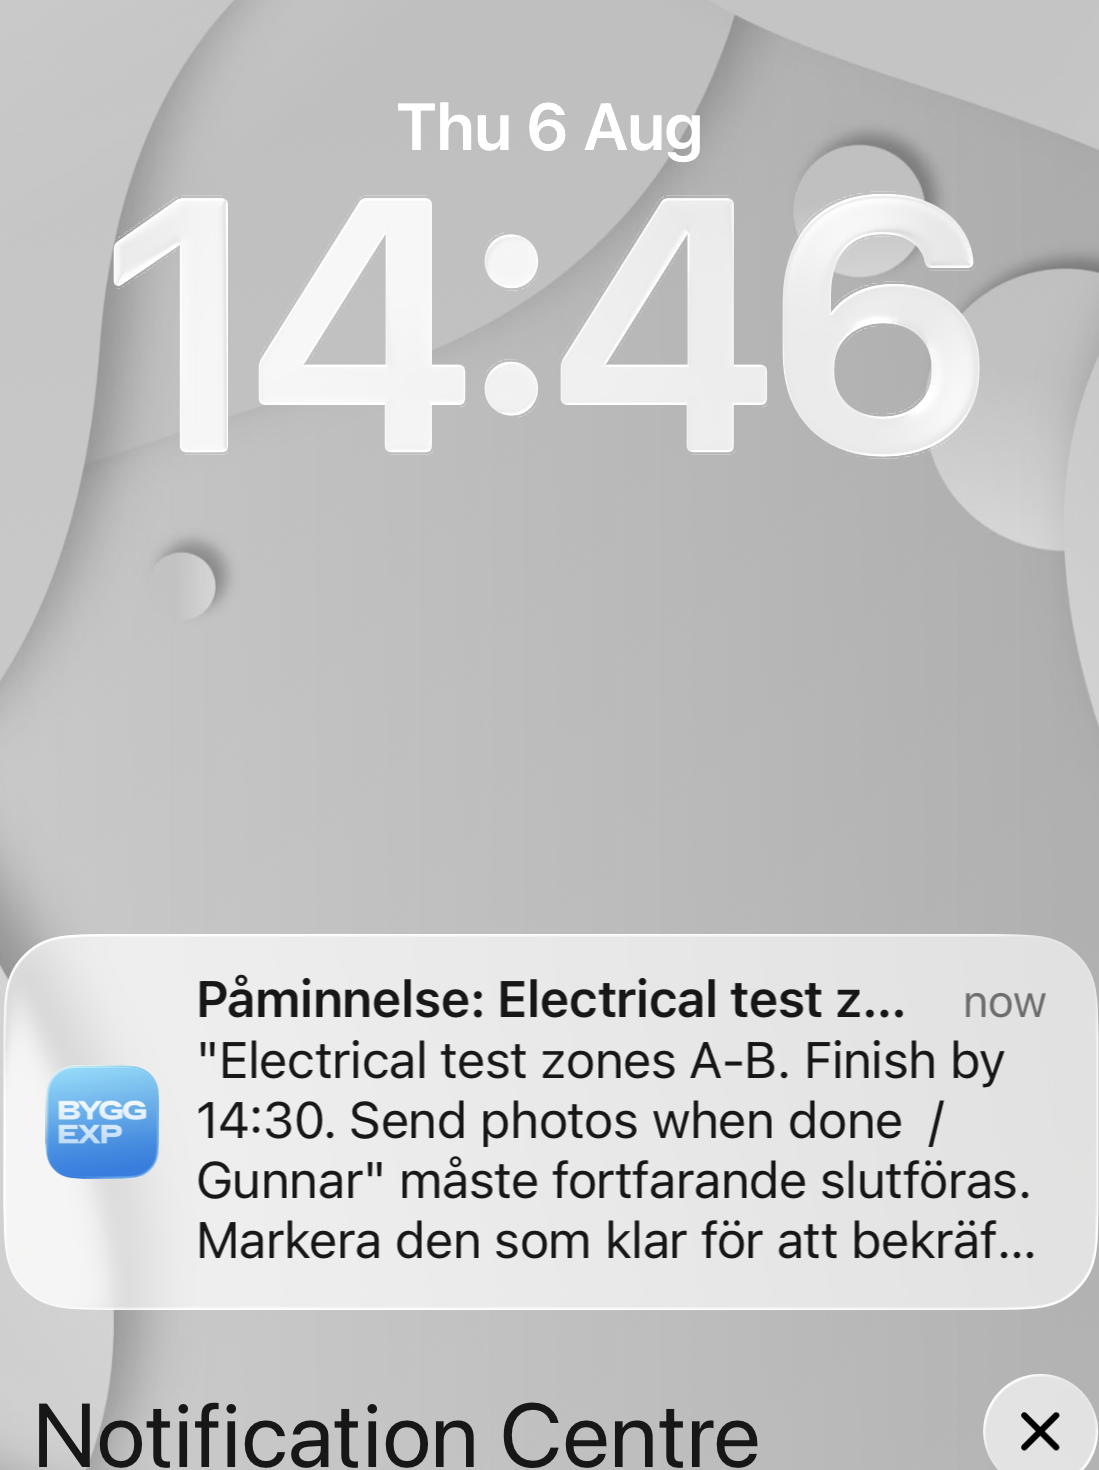
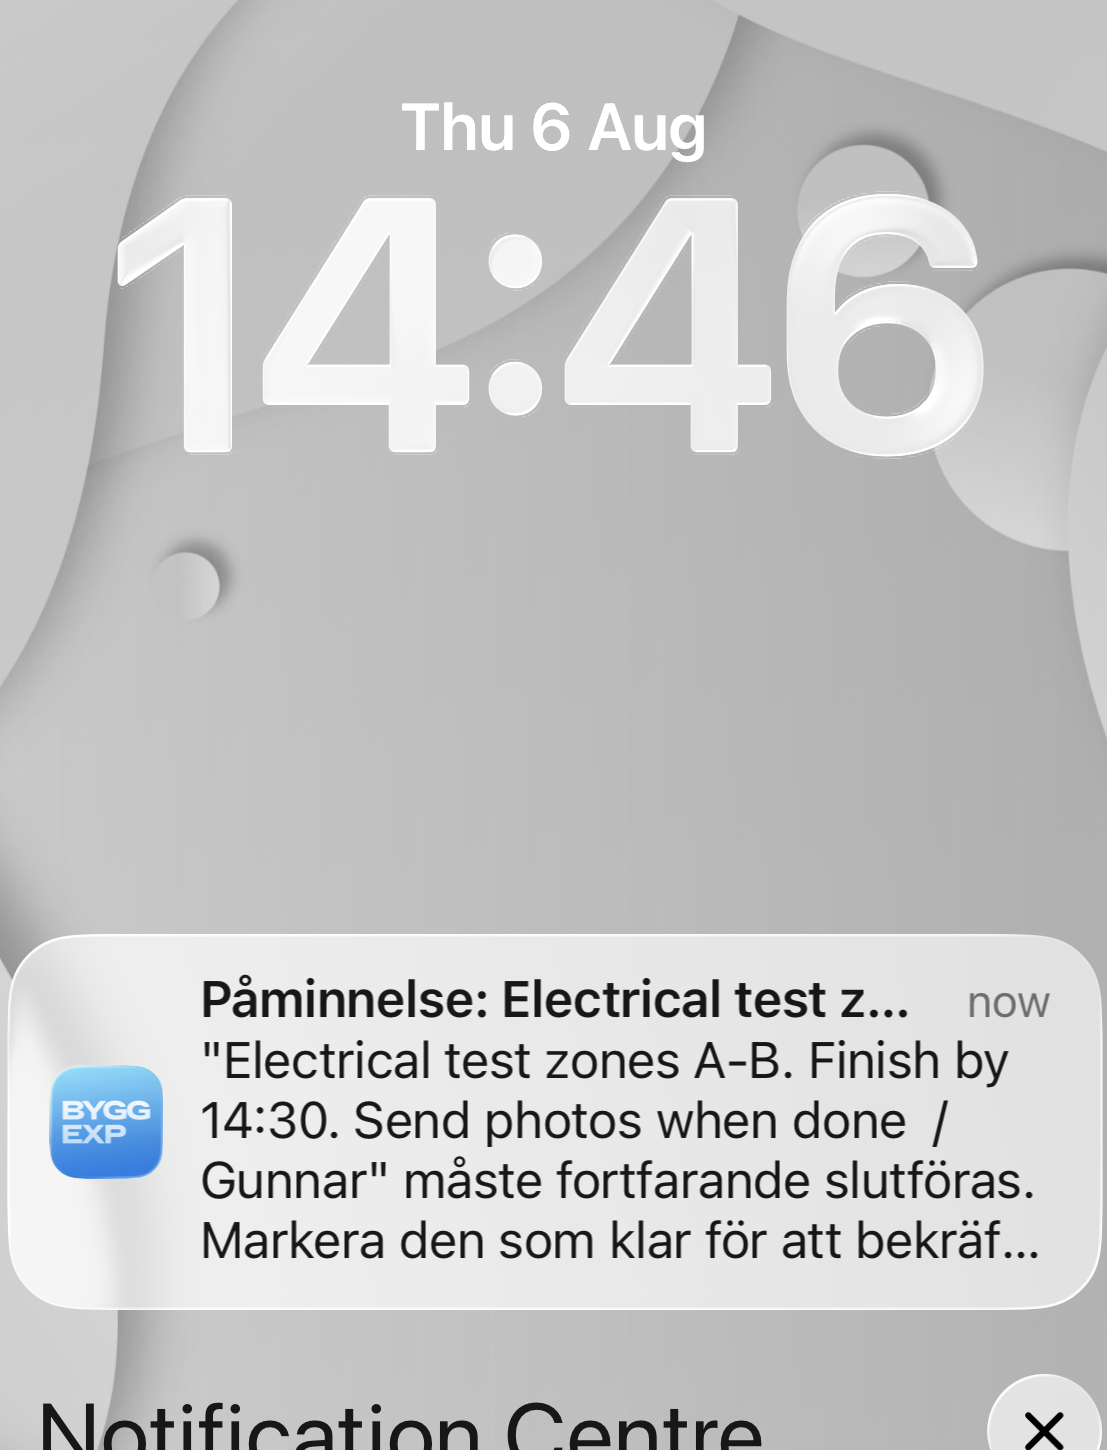
fix(welcome): tasks image sizing + receipt title/radii
- Tasks: give the lock-screen Image an explicit width×height (301×394) instead
  of aspectRatio — RN left the height unconstrained on device so cover zoomed
  into a slice. Re-cropped to include both reminders.
- Receipt (Nytt utlägg): centre the title (match other slide headers); unify
  inner radii (inputs/buttons r12/14, no more pill buttons); tightened spacing
  so the benefit heading isn't clipped.

JS-only → OTA.

Claude-Session: https://claude.ai/code/session_01PJYvtLEds7WEEeY47DMg3X

diff --git a/src/components/common/WelcomeSlides/mockups/ReceiptMock.jsx b/src/components/common/WelcomeSlides/mockups/ReceiptMock.jsx
@@ -48,15 +48,21 @@ export function ReceiptMock() {
 
 const styles = StyleSheet.create({
   card: { width: 301, maxWidth: "100%", alignSelf: "center", padding: 10 },
-  title: { fontSize: 17, ...FONT.bold, color: MOCK.navy, marginBottom: 10 },
+  title: {
+    fontSize: 15,
+    textAlign: "center",
+    ...FONT.semibold,
+    color: MOCK.navy,
+    marginBottom: 12,
+  },
   receipt: {
     width: "100%",
-    height: 96,
+    height: 84,
     borderRadius: 12,
     marginBottom: 12,
     backgroundColor: MOCK.track,
   },
-  field: { marginBottom: 10 },
+  field: { marginBottom: 8 },
   fieldLabel: {
     fontSize: 12,
     ...FONT.medium,
@@ -67,7 +73,7 @@ const styles = StyleSheet.create({
     backgroundColor: "#FFFFFF",
     borderWidth: 1,
     borderColor: MOCK.line,
-    borderRadius: 10,
+    borderRadius: 12,
     paddingHorizontal: 12,
     paddingVertical: 9,
   },
@@ -78,8 +84,8 @@ const styles = StyleSheet.create({
   buttons: { flexDirection: "row", gap: 10, marginTop: 4 },
   button: {
     flex: 1,
-    borderRadius: 100,
-    paddingVertical: 12,
+    borderRadius: 12,
+    paddingVertical: 11,
     alignItems: "center",
   },
   cancel: {

diff --git a/src/components/common/WelcomeSlides/mockups/NotificationMock.jsx b/src/components/common/WelcomeSlides/mockups/NotificationMock.jsx
@@ -5,7 +5,8 @@ import { ONB } from "./assets";
 
 // Task auto-reminders (admin 3 / worker 2): the real lock-screen screenshot —
 // clock + two stacked BYGG EXP push reminders for the same task. Used as an
-// image (per client): Swedish content is fine here.
+// image (per client): Swedish content is fine here. Explicit width+height so RN
+// Image can't over-scale (aspectRatio alone left it unconstrained on device).
 export function NotificationMock() {
   return (
     <Image source={ONB.tasksLock} style={styles.image} resizeMode="cover" />
@@ -15,9 +16,8 @@ export function NotificationMock() {
 const styles = StyleSheet.create({
   image: {
     width: 301,
-    maxWidth: "100%",
+    height: 394,
     alignSelf: "center",
-    aspectRatio: 1099 / 1470,
     borderRadius: 20,
   },
 });
